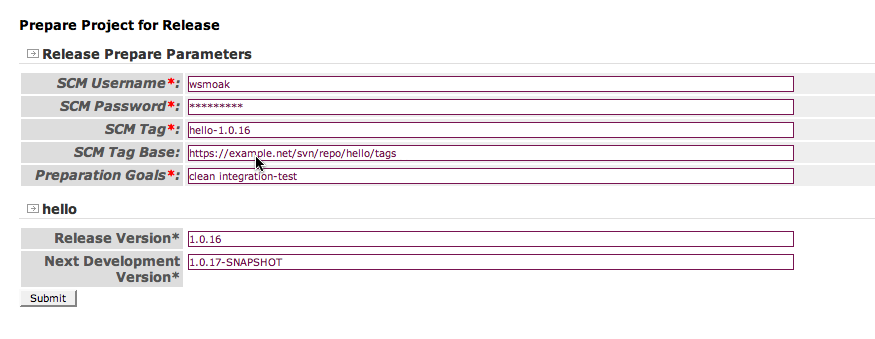
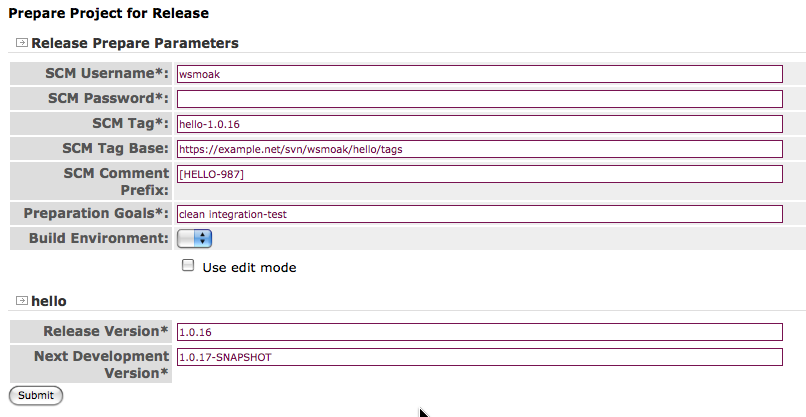
[CONTINUUM-2054] Ability to configure the scm comment prefix through the web UI for release prepare.  Add a new field on releasePrepare.jsp, and pass the value through to the release manager.  Updated image for docs.
git-svn-id: https://svn.apache.org/repos/asf/continuum/trunk@740864 13f79535-47bb-0310-9956-ffa450edef68

Changed region(s): [[0.0, 0.1475, 0.9926, 0.9735], [0.0, 0.0, 0.3102, 0.118], [0.4963, 0.9735, 0.5273, 1.0]]

diff --git a/continuum-webapp/src/main/java/org/apache/maven/continuum/web/action/ReleasePrepareAction.java b/continuum-webapp/src/main/java/org/apache/maven/continuum/web/action/ReleasePrepareAction.java
@@ -71,6 +71,8 @@ public class ReleasePrepareAction
 
     private String scmTagBase;
 
+    private String scmCommentPrefix;
+
     private boolean scmUseEditMode = false;
     
     private List projects = new ArrayList();
@@ -383,6 +385,11 @@ public class ReleasePrepareAction
             p.setProperty( "tagBase", scmTagBase );
         }
 
+        if ( StringUtils.isNotEmpty( scmCommentPrefix ))
+        {
+            p.setProperty( "commentPrefix", scmCommentPrefix );
+        }
+
         p.setProperty( "tag", scmTag );
         p.setProperty( "prepareGoals", prepareGoals );
         p.setProperty( "useEditMode", Boolean.toString( scmUseEditMode ) );
@@ -574,6 +581,11 @@ public class ReleasePrepareAction
 	{
 		this.scmUseEditMode = scmUseEditMode;
 	}
+
+    public void setScmCommentPrefix( String scmCommentPrefix )
+    {
+        this.scmCommentPrefix = scmCommentPrefix;
+    }
     
     
 }

diff --git a/continuum-release/src/main/java/org/apache/maven/continuum/release/DefaultContinuumReleaseManager.java b/continuum-release/src/main/java/org/apache/maven/continuum/release/DefaultContinuumReleaseManager.java
@@ -293,6 +293,10 @@ public class DefaultContinuumReleaseManager
         {
             descriptor.setScmPassword( releaseProperties.getProperty( "password" ) );
         }
+        if ( releaseProperties.containsKey( "commentPrefix" ) )
+        {
+            descriptor.setScmCommentPrefix( releaseProperties.getProperty( "commentPrefix" ) );
+        }
 
         //forced properties
         descriptor.setInteractive( false );
